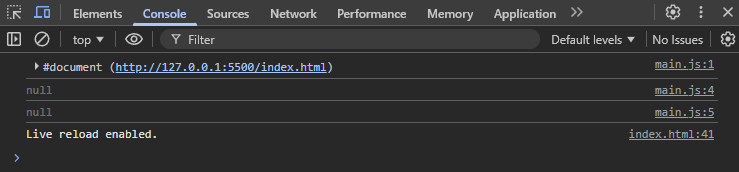
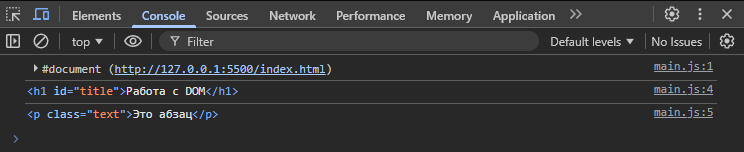
Step 3: selecting DOM elements

Changed region(s): [[0.0, 0.3421, 1.0, 0.8158], [0.0, 0.0, 1.0, 0.3158], [0.0, 0.8947, 0.0311, 0.9474]]

diff --git a/index.html b/index.html
@@ -1,14 +1,13 @@
-<!DOCTYPE html>
-<html lang="ru-RU">
-<head>
-    <meta charset="UTF-8">
-    <meta name="viewport" content="width=device-width, initial-scale=1.0">
-    <title>Lab 19 - Работа с DOM в JS</title>
-</head>
-<body>
-    <h1>Работа с DOM</h1>
-    <script src="main.js"></script>
+<!doctype html>
+<html lang="ru-Ru">
+  <head>
+    <meta charset="UTF-8" />
+    <meta name="viewport" content="width=device-width, initial-scale=1.0" />
+    <title>Laba 19 - Работа с DOM в JS</title>
+  </head>
+  <body>
     <h1 id="title">Работа с DOM</h1>
     <p class="text">Это абзац</p>
-</body>
+  </body>
+  <script src="main.js"></script>
 </html>

diff --git a/main.js b/main.js
@@ -3,3 +3,10 @@ const title = document.getElementById("title");
 const text = document.querySelector(".text");
 console.log(title);
 console.log(text);
+// title.textContent = "DOM изменен через JS!";
+// title.style.color = "blue";
+// title.style.backgroundColor = "#f0f0f0";
+// title.style.padding = "10px";
+// text.style.fontSize = "18px";
+// text.style.fontStyle = "italic";
+// text.style.color = "darkgreen";
